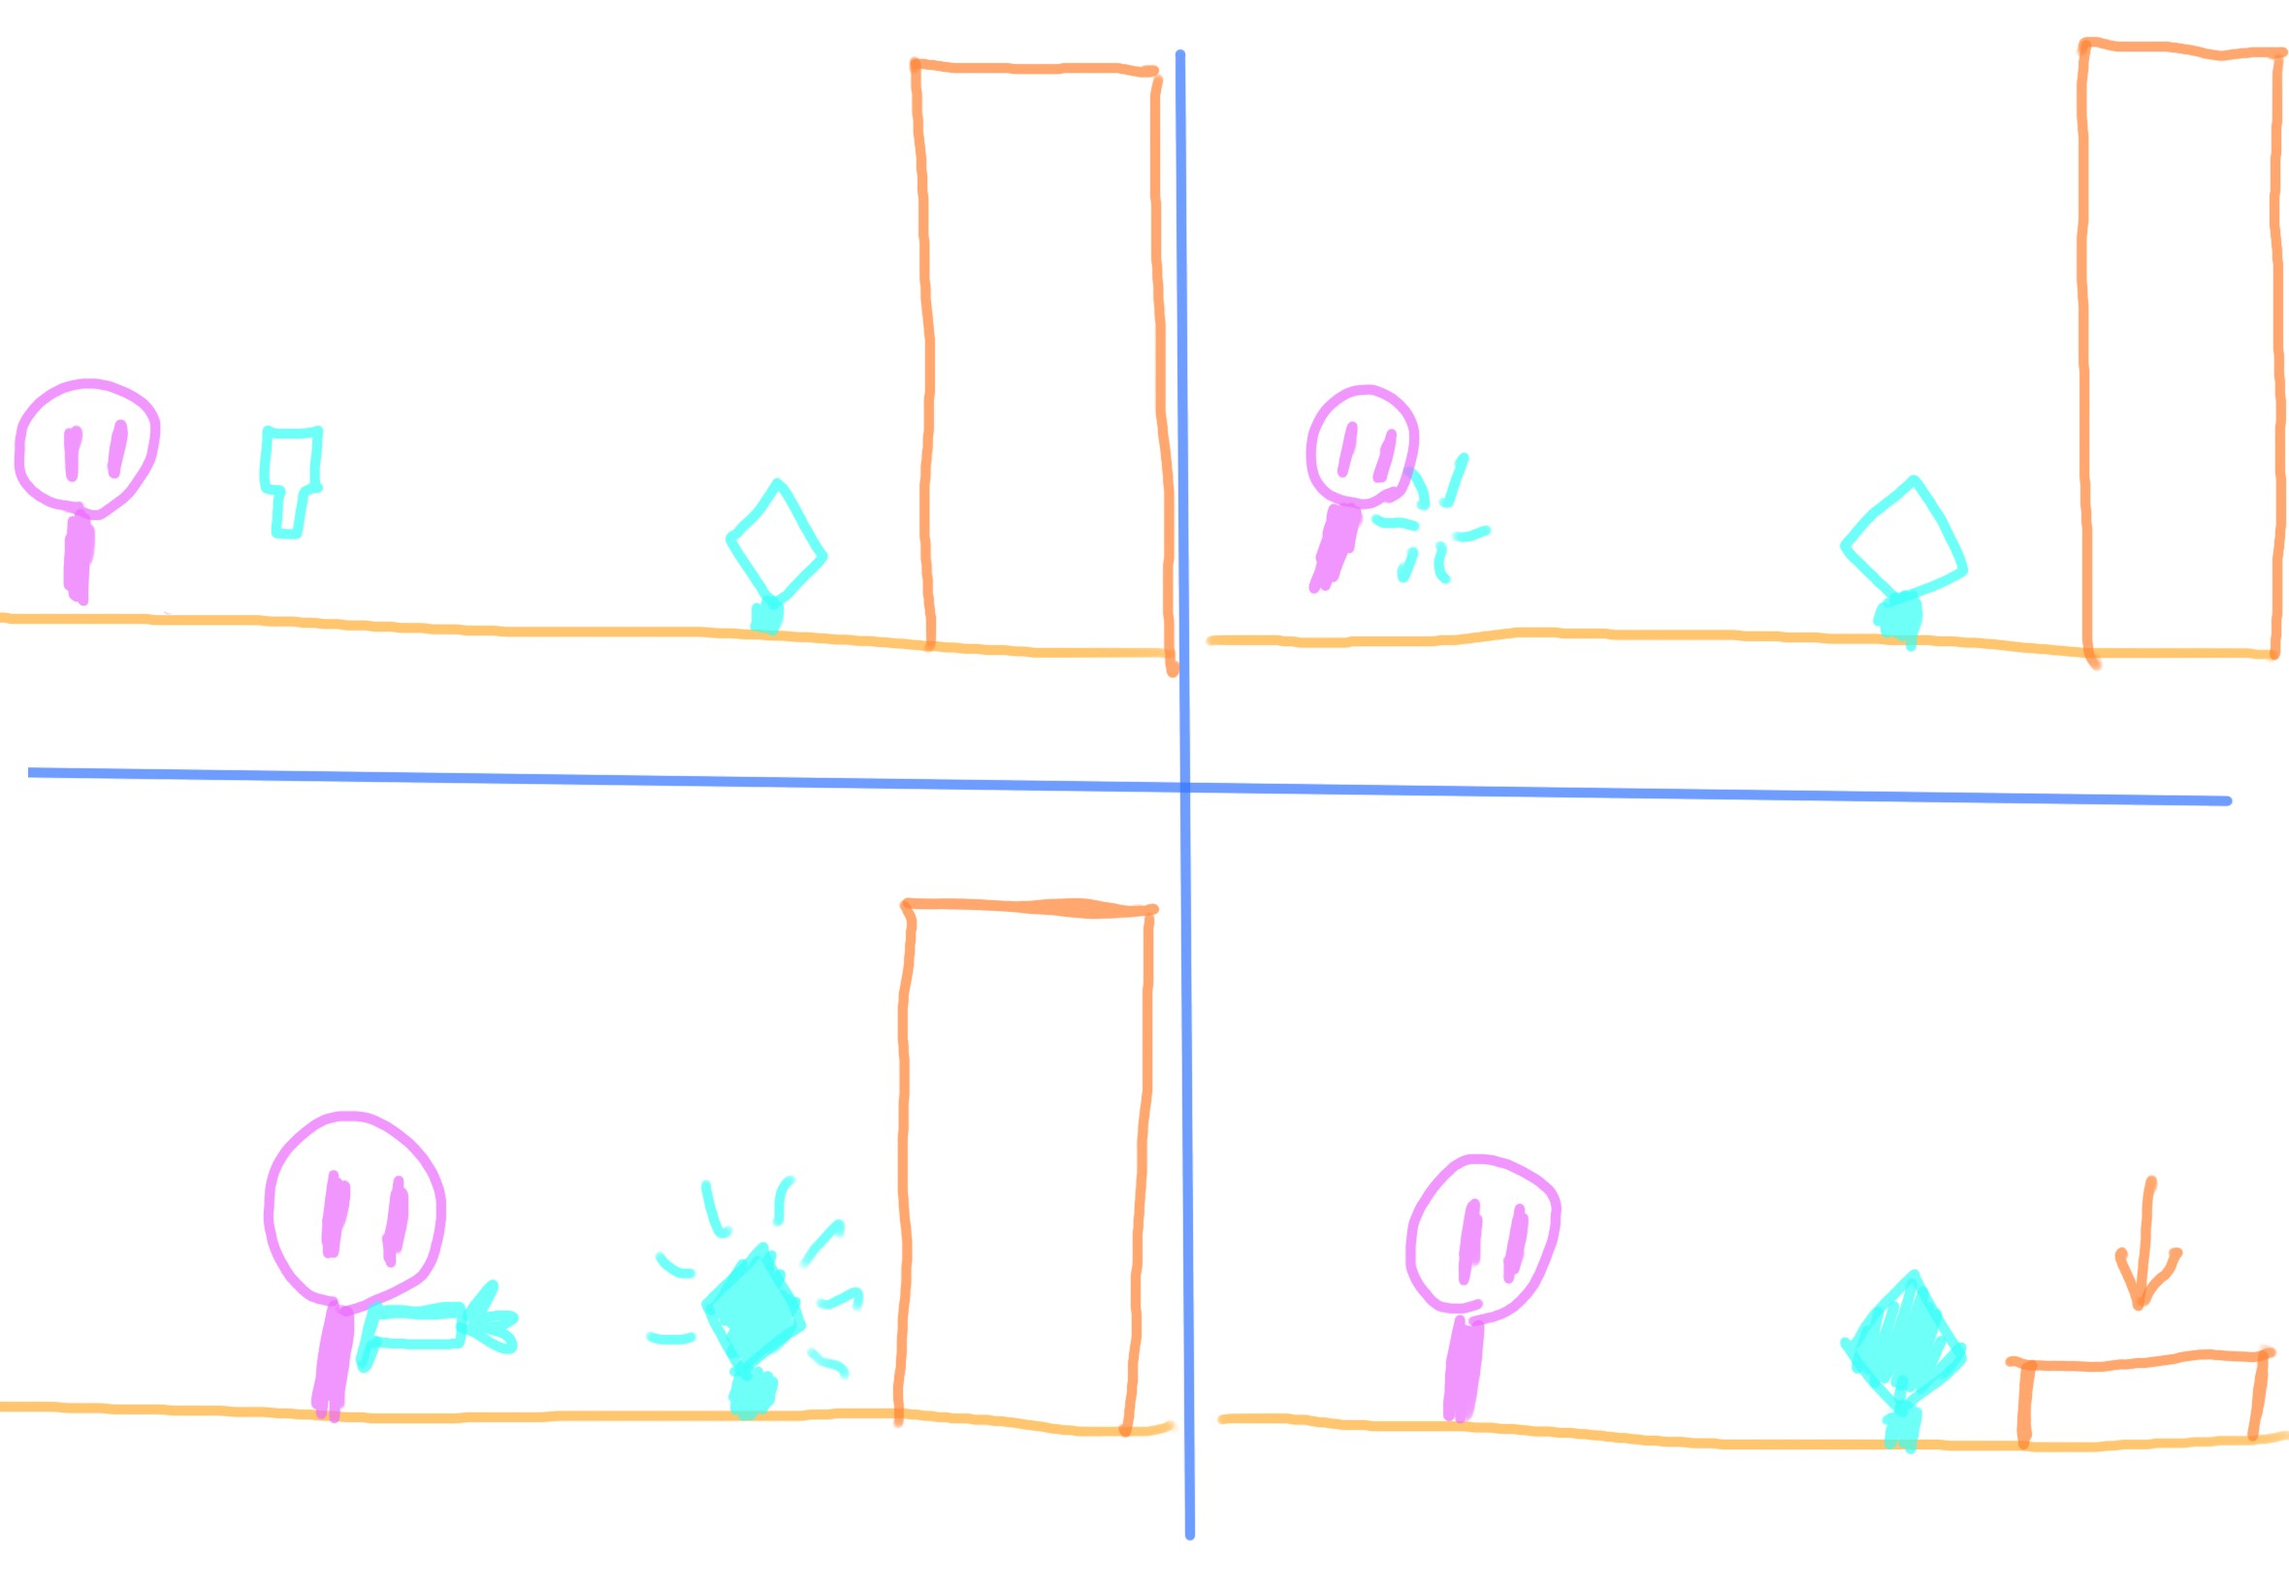
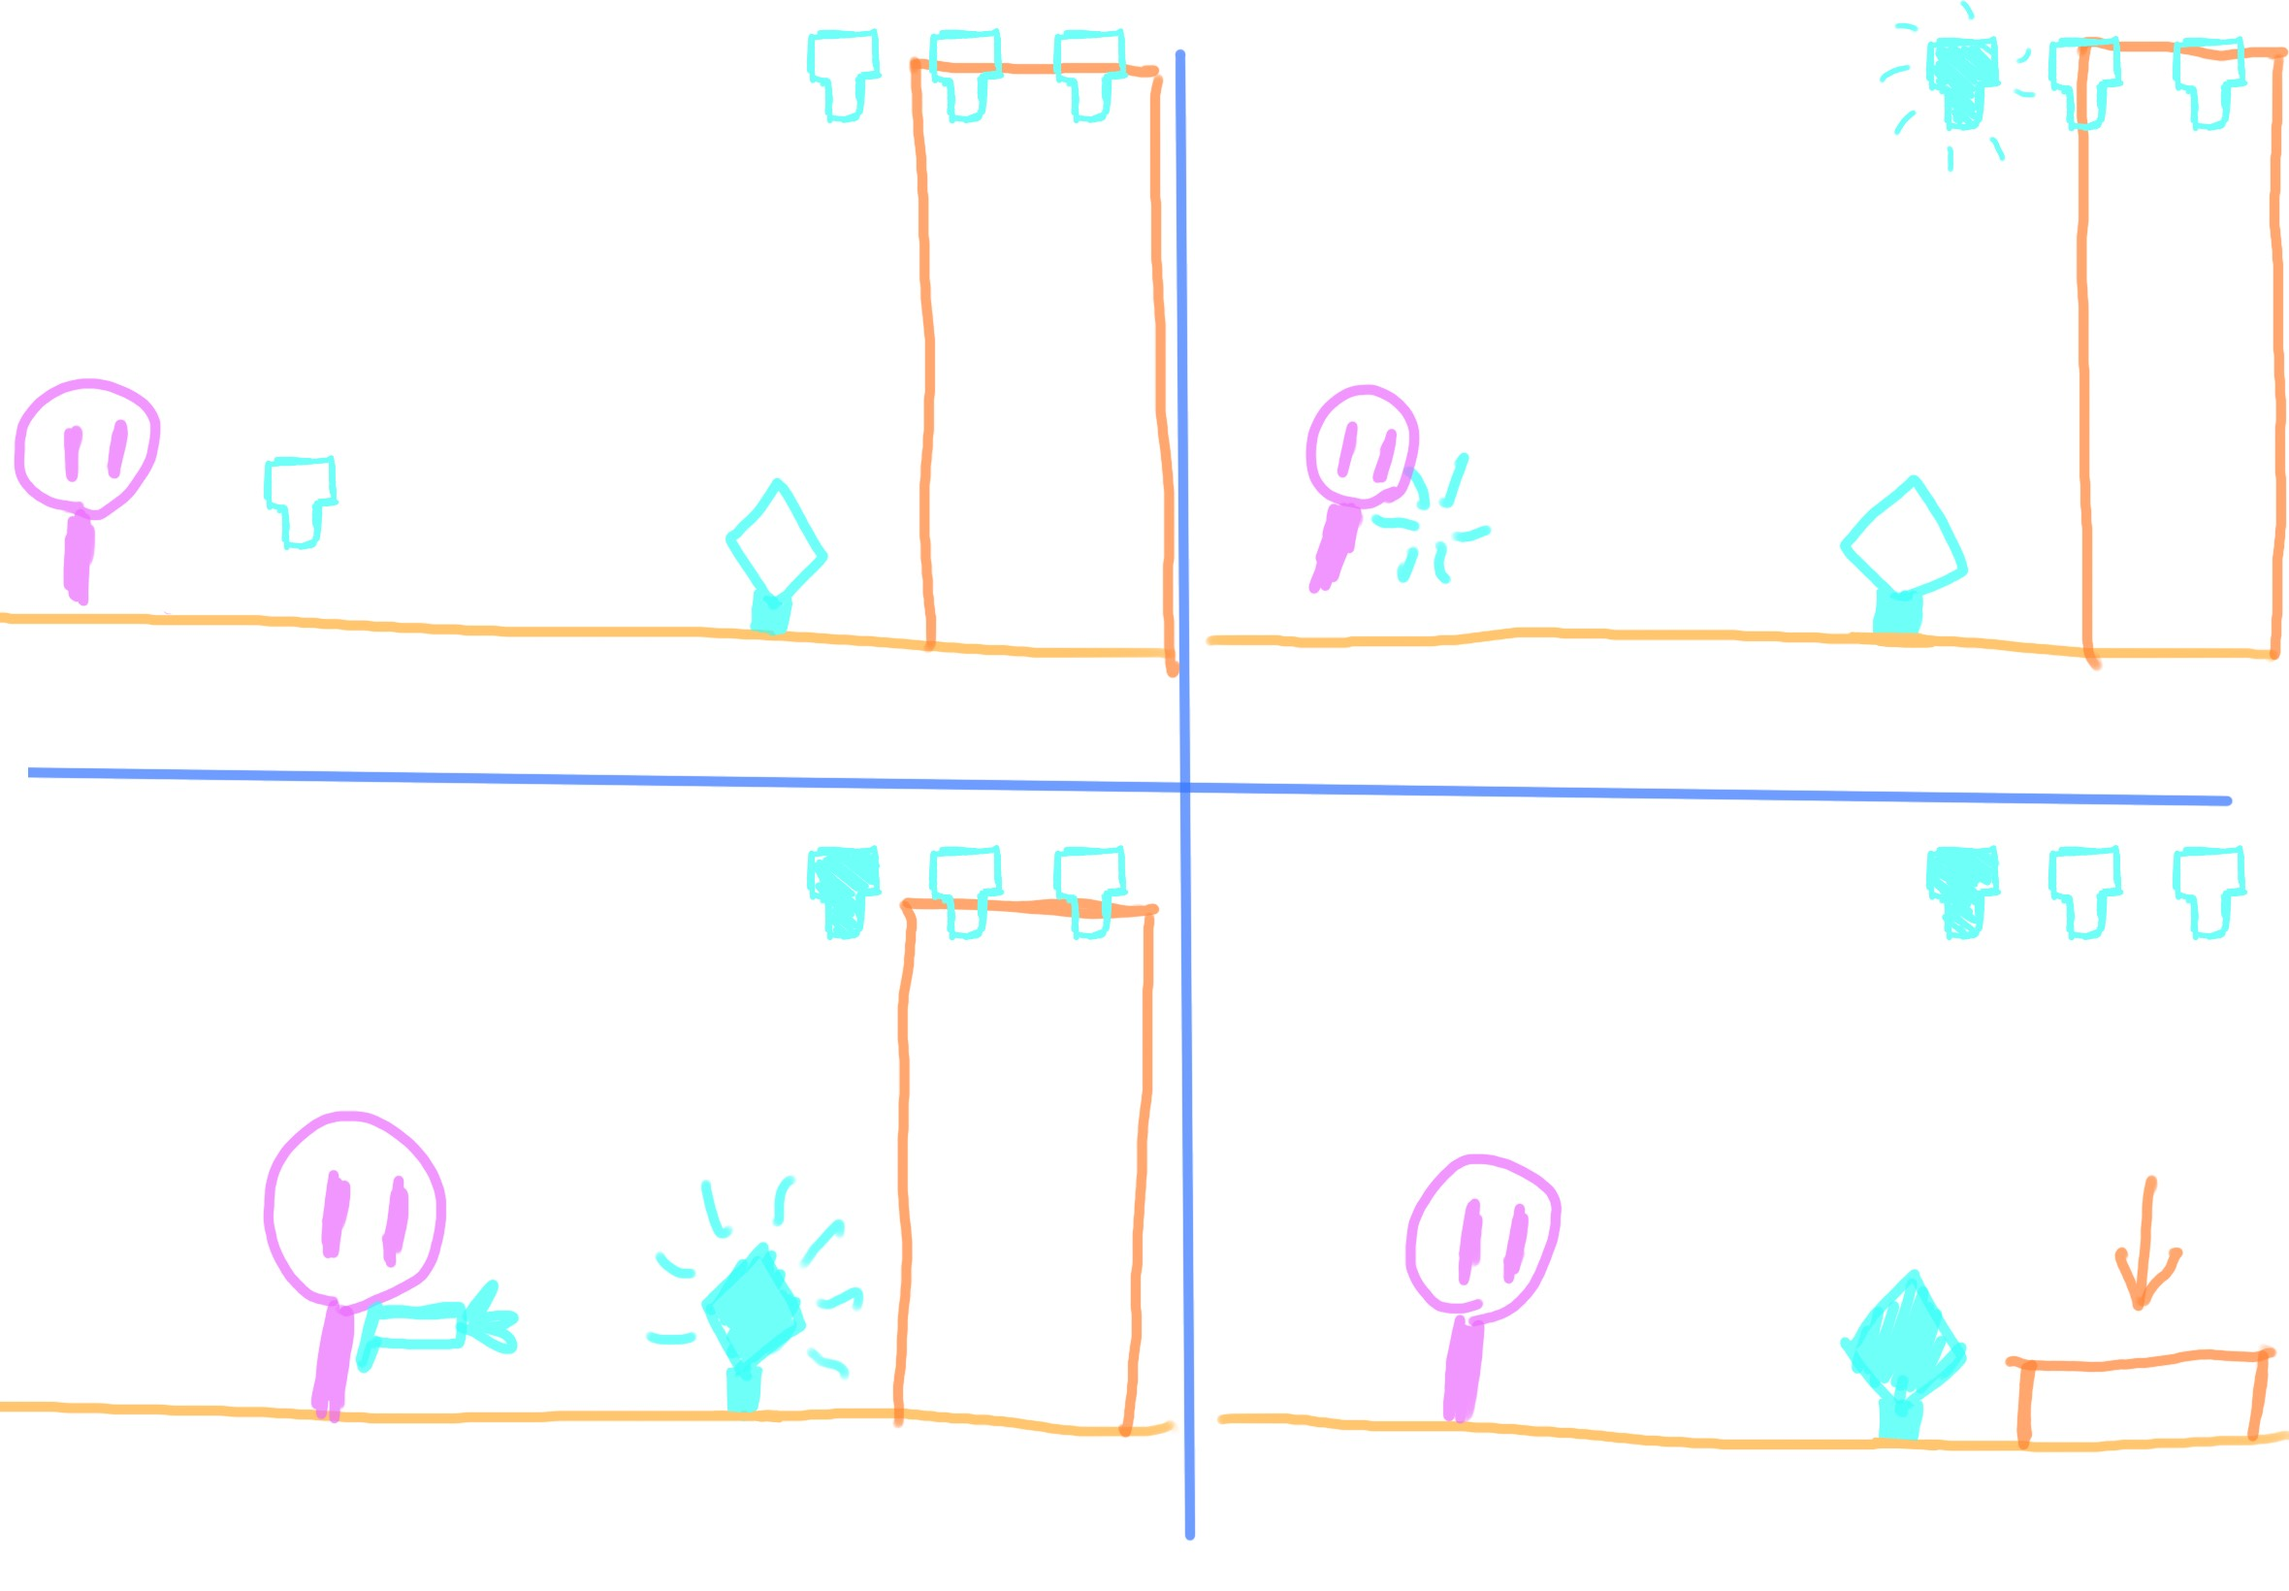
updated images

diff --git a/README.md b/README.md
@@ -85,8 +85,8 @@ You should restructure the headings below to match the order they appear in your
 ### 2.3. - 2.5. Checkpoints/Spikes/Passthrough Platforms
 Since this area includes the first acid pit after the beginning of the level, the checkpoint is introduced here. Spikes are used to increase the difficulty, since the player should have a basic understanding of the controls by now, and the passthrough platform is used for the player to access the top area easily.
 
-![Storyboard: Checkpoint, spikes and passthrough platforms 1](DocImages/CheckpointPassthroughPlatformAndSpikes1.jpg)
-![Storyboard: Checkpoint, spikes and passthrough platforms 2](DocImages/CheckpointPassthroughPlatformAndSpikes2.jpg)
+![Storyboard: Checkpoint, spikes and passthrough platforms 1](DocImages/floatingBoxSequence1.jpg)
+![Storyboard: Checkpoint, spikes and passthrough platforms 2](DocImages/floatingBoxSequence2.jpg)
 
 ### 2.6. - 2.7. Chompers/Weapon Pickup (Staff)
 The staff is given to the player at the same time as they encounter the first chomper, which is introduced here as an isolated confrontation, as well as encouraging the player to experiment with the staff.
